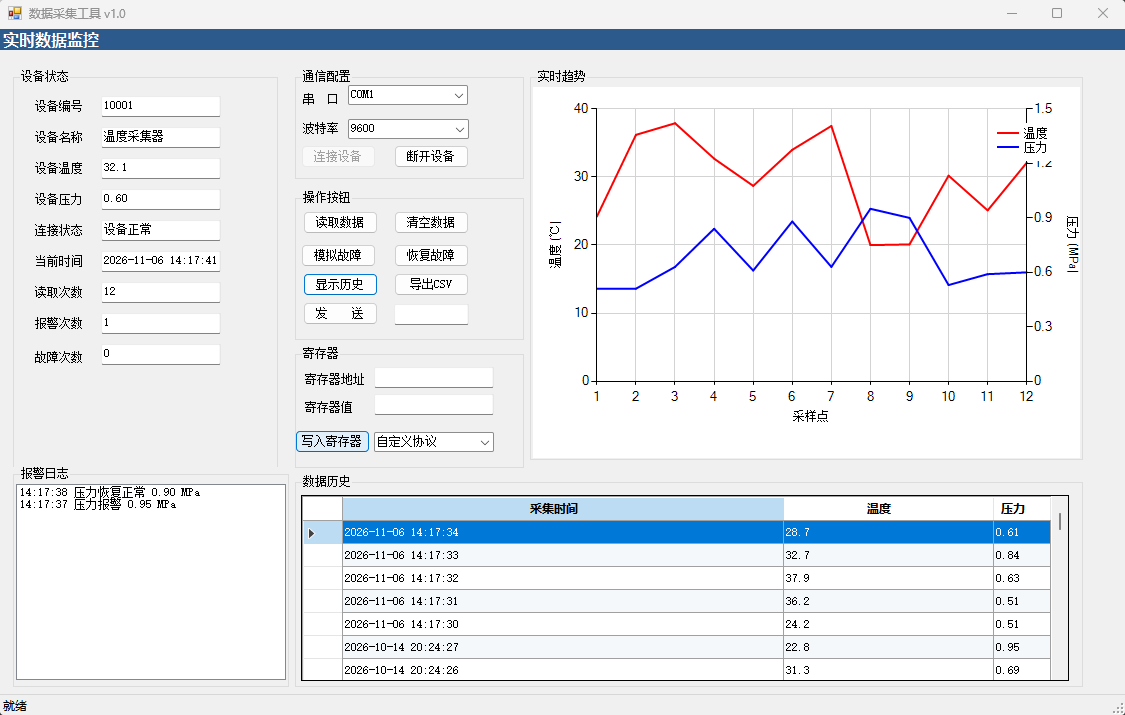
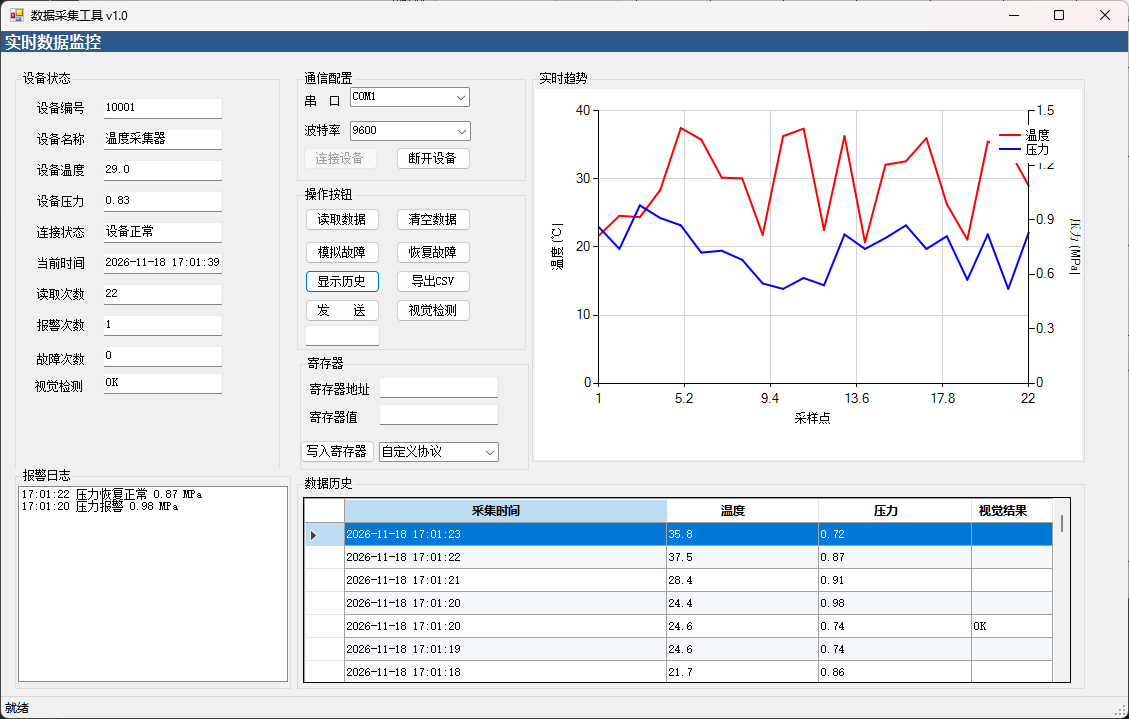
接入 Halcon 视觉检测并同步更新 README

diff --git a/Form1.Designer.cs b/Form1.Designer.cs
@@ -29,12 +29,12 @@
         private void InitializeComponent()
         {
             this.components = new System.ComponentModel.Container();
-            System.Windows.Forms.DataGridViewCellStyle dataGridViewCellStyle7 = new System.Windows.Forms.DataGridViewCellStyle();
-            System.Windows.Forms.DataGridViewCellStyle dataGridViewCellStyle8 = new System.Windows.Forms.DataGridViewCellStyle();
-            System.Windows.Forms.DataVisualization.Charting.ChartArea chartArea4 = new System.Windows.Forms.DataVisualization.Charting.ChartArea();
-            System.Windows.Forms.DataVisualization.Charting.Legend legend4 = new System.Windows.Forms.DataVisualization.Charting.Legend();
-            System.Windows.Forms.DataVisualization.Charting.Series series4 = new System.Windows.Forms.DataVisualization.Charting.Series();
-            System.Windows.Forms.DataVisualization.Charting.Title title4 = new System.Windows.Forms.DataVisualization.Charting.Title();
+            System.Windows.Forms.DataGridViewCellStyle dataGridViewCellStyle5 = new System.Windows.Forms.DataGridViewCellStyle();
+            System.Windows.Forms.DataGridViewCellStyle dataGridViewCellStyle6 = new System.Windows.Forms.DataGridViewCellStyle();
+            System.Windows.Forms.DataVisualization.Charting.ChartArea chartArea3 = new System.Windows.Forms.DataVisualization.Charting.ChartArea();
+            System.Windows.Forms.DataVisualization.Charting.Legend legend3 = new System.Windows.Forms.DataVisualization.Charting.Legend();
+            System.Windows.Forms.DataVisualization.Charting.Series series3 = new System.Windows.Forms.DataVisualization.Charting.Series();
+            System.Windows.Forms.DataVisualization.Charting.Title title3 = new System.Windows.Forms.DataVisualization.Charting.Title();
             this.label1 = new System.Windows.Forms.Label();
             this.txtDeviceId = new System.Windows.Forms.TextBox();
             this.btnConnect = new System.Windows.Forms.Button();
@@ -94,6 +94,8 @@
             this.statusStrip1 = new System.Windows.Forms.StatusStrip();
             this.toolStripStatusLabel1 = new System.Windows.Forms.ToolStripStatusLabel();
             this.panel1 = new System.Windows.Forms.Panel();
+            this.lblVision = new System.Windows.Forms.Label();
+            this.txtVision = new System.Windows.Forms.TextBox();
             ((System.ComponentModel.ISupportInitialize)(this.dgvHistory)).BeginInit();
             ((System.ComponentModel.ISupportInitialize)(this.chartMain)).BeginInit();
             this.grpDevice.SuspendLayout();
@@ -319,20 +321,20 @@
             // dgvHistory
             // 
             this.dgvHistory.AllowUserToAddRows = false;
-            dataGridViewCellStyle7.BackColor = System.Drawing.Color.FromArgb(((int)(((byte)(245)))), ((int)(((byte)(248)))), ((int)(((byte)(251)))));
-            this.dgvHistory.AlternatingRowsDefaultCellStyle = dataGridViewCellStyle7;
+            dataGridViewCellStyle5.BackColor = System.Drawing.Color.FromArgb(((int)(((byte)(245)))), ((int)(((byte)(248)))), ((int)(((byte)(251)))));
+            this.dgvHistory.AlternatingRowsDefaultCellStyle = dataGridViewCellStyle5;
             this.dgvHistory.Anchor = ((System.Windows.Forms.AnchorStyles)((((System.Windows.Forms.AnchorStyles.Top | System.Windows.Forms.AnchorStyles.Bottom) 
             | System.Windows.Forms.AnchorStyles.Left) 
             | System.Windows.Forms.AnchorStyles.Right)));
             this.dgvHistory.BackgroundColor = System.Drawing.Color.White;
-            dataGridViewCellStyle8.Alignment = System.Windows.Forms.DataGridViewContentAlignment.MiddleCenter;
-            dataGridViewCellStyle8.BackColor = System.Drawing.Color.FromArgb(((int)(((byte)(31)))), ((int)(((byte)(78)))), ((int)(((byte)(121)))));
-            dataGridViewCellStyle8.Font = new System.Drawing.Font("微软雅黑", 9F, System.Drawing.FontStyle.Bold, System.Drawing.GraphicsUnit.Point, ((byte)(0)));
-            dataGridViewCellStyle8.ForeColor = System.Drawing.Color.White;
-            dataGridViewCellStyle8.SelectionBackColor = System.Drawing.SystemColors.Highlight;
-            dataGridViewCellStyle8.SelectionForeColor = System.Drawing.SystemColors.HighlightText;
-            dataGridViewCellStyle8.WrapMode = System.Windows.Forms.DataGridViewTriState.True;
-            this.dgvHistory.ColumnHeadersDefaultCellStyle = dataGridViewCellStyle8;
+            dataGridViewCellStyle6.Alignment = System.Windows.Forms.DataGridViewContentAlignment.MiddleCenter;
+            dataGridViewCellStyle6.BackColor = System.Drawing.Color.FromArgb(((int)(((byte)(31)))), ((int)(((byte)(78)))), ((int)(((byte)(121)))));
+            dataGridViewCellStyle6.Font = new System.Drawing.Font("微软雅黑", 9F, System.Drawing.FontStyle.Bold, System.Drawing.GraphicsUnit.Point, ((byte)(0)));
+            dataGridViewCellStyle6.ForeColor = System.Drawing.Color.White;
+            dataGridViewCellStyle6.SelectionBackColor = System.Drawing.SystemColors.Highlight;
+            dataGridViewCellStyle6.SelectionForeColor = System.Drawing.SystemColors.HighlightText;
+            dataGridViewCellStyle6.WrapMode = System.Windows.Forms.DataGridViewTriState.True;
+            this.dgvHistory.ColumnHeadersDefaultCellStyle = dataGridViewCellStyle6;
             this.dgvHistory.ColumnHeadersHeightSizeMode = System.Windows.Forms.DataGridViewColumnHeadersHeightSizeMode.AutoSize;
             this.dgvHistory.Columns.AddRange(new System.Windows.Forms.DataGridViewColumn[] {
             this.cmbMode,
@@ -457,30 +459,30 @@
             // 
             // chartMain
             // 
-            chartArea4.InnerPlotPosition.Auto = false;
-            chartArea4.InnerPlotPosition.Height = 100F;
-            chartArea4.InnerPlotPosition.Width = 100F;
-            chartArea4.Name = "ChartArea1";
-            chartArea4.Position.Auto = false;
-            chartArea4.Position.Height = 88F;
-            chartArea4.Position.Width = 94F;
-            chartArea4.Position.X = 3F;
-            chartArea4.Position.Y = 3F;
-            this.chartMain.ChartAreas.Add(chartArea4);
+            chartArea3.InnerPlotPosition.Auto = false;
+            chartArea3.InnerPlotPosition.Height = 100F;
+            chartArea3.InnerPlotPosition.Width = 100F;
+            chartArea3.Name = "ChartArea1";
+            chartArea3.Position.Auto = false;
+            chartArea3.Position.Height = 88F;
+            chartArea3.Position.Width = 94F;
+            chartArea3.Position.X = 3F;
+            chartArea3.Position.Y = 3F;
+            this.chartMain.ChartAreas.Add(chartArea3);
             this.chartMain.Dock = System.Windows.Forms.DockStyle.Fill;
-            legend4.Name = "Legend1";
-            this.chartMain.Legends.Add(legend4);
+            legend3.Name = "Legend1";
+            this.chartMain.Legends.Add(legend3);
             this.chartMain.Location = new System.Drawing.Point(3, 17);
             this.chartMain.Name = "chartMain";
-            series4.ChartArea = "ChartArea1";
-            series4.Legend = "Legend1";
-            series4.Name = "Series1";
-            this.chartMain.Series.Add(series4);
+            series3.ChartArea = "ChartArea1";
+            series3.Legend = "Legend1";
+            series3.Name = "Series1";
+            this.chartMain.Series.Add(series3);
             this.chartMain.Size = new System.Drawing.Size(547, 509);
             this.chartMain.TabIndex = 35;
             this.chartMain.Text = "chart1";
-            title4.Name = "实时数据趋势";
-            this.chartMain.Titles.Add(title4);
+            title3.Name = "实时数据趋势";
+            this.chartMain.Titles.Add(title3);
             // 
             // lstAlarmLog
             // 
@@ -536,6 +538,8 @@
             // 
             // grpDevice
             // 
+            this.grpDevice.Controls.Add(this.txtVision);
+            this.grpDevice.Controls.Add(this.lblVision);
             this.grpDevice.Controls.Add(this.label1);
             this.grpDevice.Controls.Add(this.txtDeviceId);
             this.grpDevice.Controls.Add(this.label2);
@@ -693,6 +697,21 @@
             this.panel1.Size = new System.Drawing.Size(1127, 21);
             this.panel1.TabIndex = 51;
             // 
+            // lblVision
+            // 
+            this.lblVision.Location = new System.Drawing.Point(12, 308);
+            this.lblVision.Name = "lblVision";
+            this.lblVision.Size = new System.Drawing.Size(70, 18);
+            this.lblVision.TabIndex = 21;
+            this.lblVision.Text = " 视觉检测";
+            // 
+            // txtVision
+            // 
+            this.txtVision.Location = new System.Drawing.Point(88, 301);
+            this.txtVision.Name = "txtVision";
+            this.txtVision.Size = new System.Drawing.Size(120, 21);
+            this.txtVision.TabIndex = 24;
+            // 
             // Form1
             // 
             this.AutoScaleMode = System.Windows.Forms.AutoScaleMode.None;
@@ -792,5 +811,7 @@
         private System.Windows.Forms.ToolStripStatusLabel toolStripStatusLabel1;
         private System.Windows.Forms.Panel panel1;
         private System.Windows.Forms.Button btnVision;
+        private System.Windows.Forms.TextBox txtVision;
+        private System.Windows.Forms.Label lblVision;
     }
 }

diff --git a/Form1.cs b/Form1.cs
@@ -925,8 +925,8 @@ namespace WindowsFormsApp1
             {
                 using (SQLiteConnection conn = DbPath.OpenConnection())
                 {
-                    const string sql = "SELECT RecordTime AS 采集时间, Temperature AS 温度, Pressure AS 压力 " +
-                                       "FROM History ORDER BY Id DESC LIMIT 100";
+                    const string sql = "SELECT RecordTime AS 采集时间, Temperature AS 温度, Pressure AS 压力, " +
+                                       "VisionResult AS 视觉结果 FROM History ORDER BY Id DESC LIMIT 100";
                     using (SQLiteDataAdapter adapter = new SQLiteDataAdapter(sql, conn))
                     {
                         DataTable dt = new DataTable();
@@ -964,12 +964,12 @@ namespace WindowsFormsApp1
              
                 using (StreamWriter sw = new StreamWriter(saveDialog.FileName, false, new UTF8Encoding(true)))
                 {
-                    sw.WriteLine("采集时间,温度(℃),压力(MPa)");
+                    sw.WriteLine("采集时间,温度(℃),压力(MPa),视觉结果");
 
                         
                     using (SQLiteConnection conn = DbPath.OpenConnection())
                     using (SQLiteCommand cmd = new SQLiteCommand(
-                        "SELECT RecordTime, Temperature, Pressure FROM History ORDER BY Id DESC", conn))
+                        "SELECT RecordTime, Temperature, Pressure, VisionResult FROM History ORDER BY Id DESC", conn))
                     using (SQLiteDataReader reader = cmd.ExecuteReader())
                     {
                         int count = 0;
@@ -979,7 +979,12 @@ namespace WindowsFormsApp1
                             string temp = Convert.ToDouble(reader["Temperature"]).ToString("F1");
                             string press = Convert.ToDouble(reader["Pressure"]).ToString("F2");
 
-                            sw.WriteLine(string.Format("{0},{1},{2}", time, temp, press));
+                            // 视觉结果可能含逗号(如报错信息)，按 CSV 规则用引号包裹并转义内部引号
+                            string vision = reader["VisionResult"] == DBNull.Value
+                                ? "" : reader["VisionResult"].ToString();
+                            string visionCsv = "\"" + vision.Replace("\"", "\"\"") + "\"";
+
+                            sw.WriteLine(string.Format("{0},{1},{2},{3}", time, temp, press, visionCsv));
                             count++;
                         }
 
@@ -1128,6 +1133,7 @@ namespace WindowsFormsApp1
             txtTemperature.Clear();
             txtPressure.Clear();
             txtTime.Clear();
+            txtVision.Clear();
 
             txtalarmCount.Text = "0";
             txtCount.Text = "0";
@@ -1180,8 +1186,9 @@ namespace WindowsFormsApp1
                     
                     SafeInvoke(() =>
                     {
-                        
-                        txtStatus.Text = "视觉检测完成: " + visionResult;
+
+                        txtVision.Text = visionResult;
+
                     });
                 }
                 catch (Exception ex)

diff --git a/VisionHelper.cs b/VisionHelper.cs
@@ -1,35 +1,55 @@
-using System;
+using HalconDotNet;          // 新增：Halcon .NET 接口
+using System;
+
 using System.IO;
-using System.Threading;
+
 
 namespace WindowsFormsApp1
 {
     public static class VisionHelper
     {
-        // 模拟视觉处理接口
         public static string RunVisionProcess()
         {
+            HImage img = null;
             try
             {
-                
-                string imagePath = "test.jpg";
+                // 1. 图片路径：指向真实的 frame_000.png（原来写的 test.jpg 是个目录）
+                string baseDir = AppDomain.CurrentDomain.BaseDirectory;
+                string imagePath = Path.Combine(baseDir, "test.jpg", "frame_000.png");
                 if (!File.Exists(imagePath))
-                {
-                    return "找不到图片";
-                }
+                    return "找不到图片：" + imagePath;
 
-                // 2. 模拟Halcon算法处理耗时
-                Thread.Sleep(100);
+                // 2. 读图 + 拆 RGB 三通道
+                img = new HImage(imagePath);
+                HObject hr, hg, hb;
+                HOperatorSet.Decompose3(img, out hr, out hg, out hb);
+                HImage r = new HImage(hr);
+                HImage g = new HImage(hg);
+                HImage b = new HImage(hb);
 
-                // 3. 假装Halcon算完了，返回结果
-                // 真实项目中，这里会根据 Halcon 算子（比如 Blob分析）的返回值来判断
-                Random r = new Random();
-                bool isOk = r.Next(100) > 20; // 80%的概率是OK
-                return isOk ? "OK" : "NG";
+
+
+
+                // 3. 红色阈值：R 高、G/B 低
+                //    实测围巾 RGB=(169,29,35)，故 R:130~255, G:0~90, B:0~90
+                HRegion redR = r.Threshold(130.0, 255.0);
+                HRegion redG = g.Threshold(0.0, 90.0);
+                HRegion redB = b.Threshold(0.0, 90.0);
+
+                HRegion red = redR.Intersection(redG).Intersection(redB);
+
+                // 4. 算面积判定
+                HTuple area = red.AreaCenter(out HTuple row, out HTuple col);
+                int redArea = area.I;
+                return redArea > 600 ? "OK" : "NG";
             }
             catch (Exception ex)
             {
-                return "视觉报错";
+                return "视觉报错：" + ex.Message;
+            }
+            finally
+            {
+                if (img != null) img.Dispose();
             }
         }
     }

diff --git a/README.md b/README.md
@@ -1,6 +1,6 @@
 # 串行Modbus上位机（Serial Modbus Upper Machine）
 
-基于 C# WinForms 开发的 Modbus RTU / ASCII 串口采集上位机。项目重点不在于界面本身，而在于演示一套**标准上位机应有的工程化分层**：多线程采集与 UI 解耦、生产者-消费者异步落库、SQLite 并发调优、统一日志与配置抽离。
+基于 C# WinForms 开发的 Modbus RTU / ASCII 串口采集上位机。项目重点不在于界面本身，而在于演示一套**标准上位机应有的工程化分层**：多线程采集与 UI 解耦、生产者-消费者异步落库、SQLite 并发调优、统一日志与配置抽离，并集成 Halcon 机器视觉检测。
 
 ## 界面预览
 
@@ -11,7 +11,8 @@
 - **数据采集**：支持自定义 ASCII 协议和 Modbus RTU 协议，支持无下位机时的模拟数据采集。
 - **实时显示**：采集数据实时刷新图表，支持温度、压力双 Y 轴曲线。
 - **报警监控**：压力越限边沿触发报警（非持续报警），支持故障模拟与恢复。
-- **历史存储**：采集数据自动落库 SQLite，支持查询历史记录与 CSV 导出。
+- **历史存储**：采集数据自动落库 SQLite，支持查询历史记录与 CSV 导出（含视觉结果列）。
+- **机器视觉**：集成 Halcon，通过 RGB 阈值分割检测红色目标（示例为红围巾），结果独立显示并写入历史记录。
 
 ## 技术栈
 
@@ -21,6 +22,7 @@
 | 通信 | EasyModbusTCP 5.6.0（Modbus RTU）、System.IO.Ports（串口） |
 | 存储 | System.Data.SQLite 1.0.119 |
 | 图表 | WinForms Chart（双 Y 轴） |
+| 机器视觉 | HALCON 26.05 Progress（halcondotnet.dll） |
 
 ## 工程化分层
 
@@ -29,8 +31,9 @@
 | `AppConfig.cs` | 全局配置常量（消灭魔法数字，参数集中管理） |
 | `Logger.cs` | 统一日志组件（分级记录异常，输出到 `logs/`，按日期滚动） |
 | `DbPath.cs` | 数据库连接工厂（绝对路径 + WAL 并发模式 + 连接池） |
-| `DbRecord.cs` | 数据落库实体（轻量 struct，与 UI 解耦） |
+| `DbRecord.cs` | 数据落库实体（轻量 struct，与 UI 解耦，含视觉结果字段） |
 | `DeviceData.cs` | 采集数据结构 |
+| `VisionHelper.cs` | Halcon 视觉检测封装（读图 → RGB 通道分解 → 阈值分割 → 面积判定） |
 | `Form1.cs` | 主窗体（仅负责界面逻辑与业务调度） |
 
 ## 关键技术优化
@@ -38,26 +41,32 @@
 - **UI 无阻塞**：串口轮询在后台线程进行，通过 `BeginInvoke` 安全更新界面（`SafeInvoke` 内含 `IsDisposed` / `IsHandleCreated` / `isClosing` 三重判断）；数据库写入采用生产者-消费者模式（`BlockingCollection` 内存队列 + 后台线程批量事务），高频采集时界面不卡顿。
 - **数据可靠性**：开启 `journal_mode=WAL` 与 `busy_timeout=3000`，解决 SQLite 并发读写 `database is locked`；关闭窗口时强制排空写入队列，末尾数据不丢失。
 - **异常可追溯**：杜绝空 `catch`，所有异常统一记录到按日期滚动的本地日志文件。
+- **视觉与业务解耦**：视觉检测在后台 `Task.Run` 执行，通过 `SafeInvoke` 回写 UI；检测结果作为独立记录入队落库，不干扰正常的采集数据流。
 
 ## 环境要求
 
-- Windows 7 及以上
+- Windows 7 及以上（64 位）
 - Visual Studio 2019 或 2022（含「.NET 桌面开发」工作负载）
 - .NET Framework 4.7.2 运行时
+- **HALCON 26.05 Progress**（必需，需有效 License；未安装时项目无法编译）
 
 ## 如何运行
 
 1. 用 Visual Studio 打开 **`WindowsFormsApp1.sln`**。
    （若使用 VS 2022 17.14 及以上版本，也可打开 `WindowsFormsApp1.slnx`。）
 2. 右键解决方案 → **还原 NuGet 包**。
-3. 平台选择 `x86`，编译运行。
-4. 无下位机时，点击「读取数据」按钮即可开启模拟采集。
-5. 运行时生成的文件：
-   - 数据库：`bin/x86/Debug/data/HistoryData.db`
-   - 日志：`bin/x86/Debug/logs/`
+3. 平台选择 **`x64`**（HALCON 26.05 仅提供 64 位运行时，**不能用 x86 / Any CPU**）。
+4. 把 HALCON 安装目录 `bin\x64-win64\` 下的 `halcon.dll` 复制到 `bin\x64\Debug\`，与 exe 同目录（`halcondotnet.dll` 会在编译引用时自动复制）。
+5. 无下位机时，点击「读取数据」按钮即可开启模拟采集；点击「视觉检测」按钮运行 Halcon 检测（默认读取 `bin\x64\Debug\test.jpg\frame_000.png`）。
+6. 运行时生成的文件：
+   - 数据库：`bin/x64/Debug/data/HistoryData.db`
+   - 日志：`bin/x64/Debug/logs/`
 
 ## 后续规划
 
+- [x] 集成 Halcon 机器视觉检测
+- [ ] 视觉检测阈值参数化（改为 `AppConfig` 配置项）
+- [ ] 支持多图片批量检测与结果统计
 - [ ] 引入配置文件（appsettings.json），支持运行时修改参数而无需重新编译。
 - [ ] 引入依赖注入，进一步解耦通信层与界面层。
 - [ ] 支持 OPC UA 协议接入。
